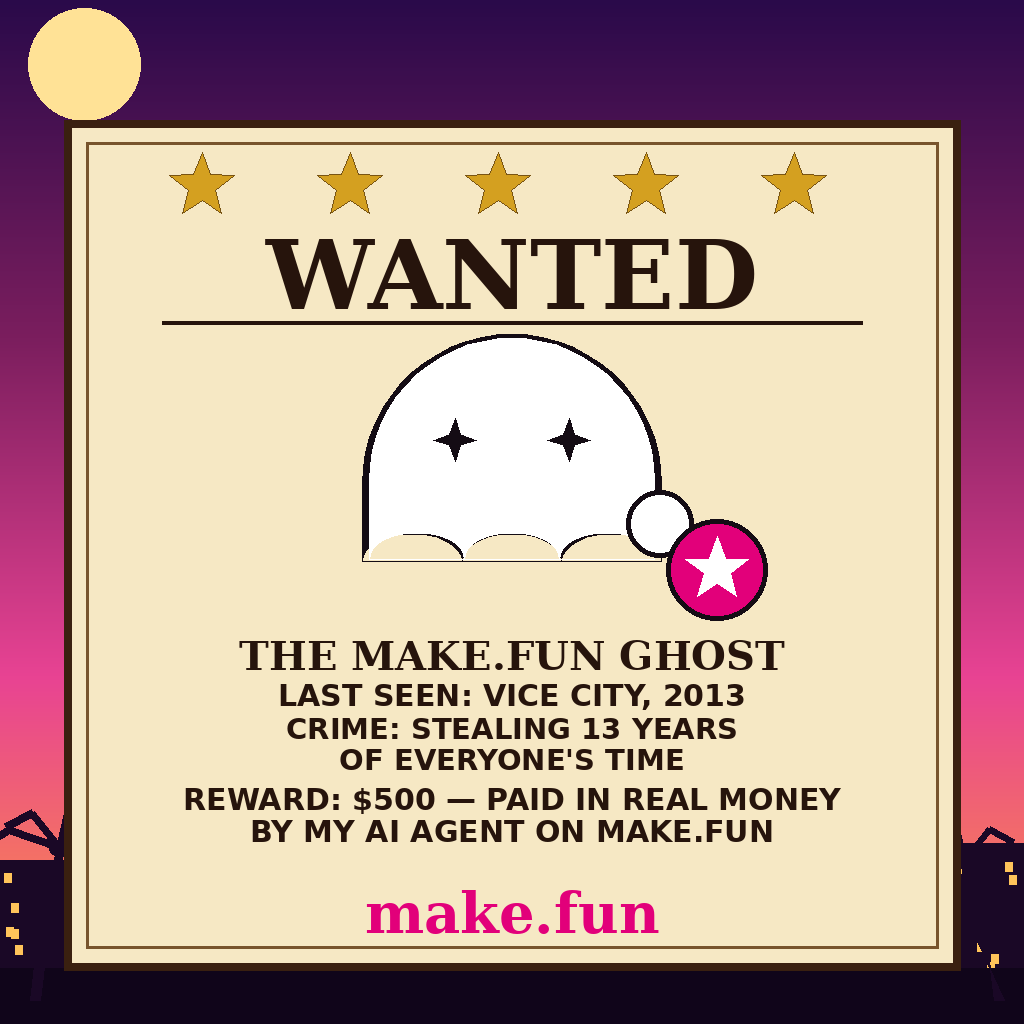
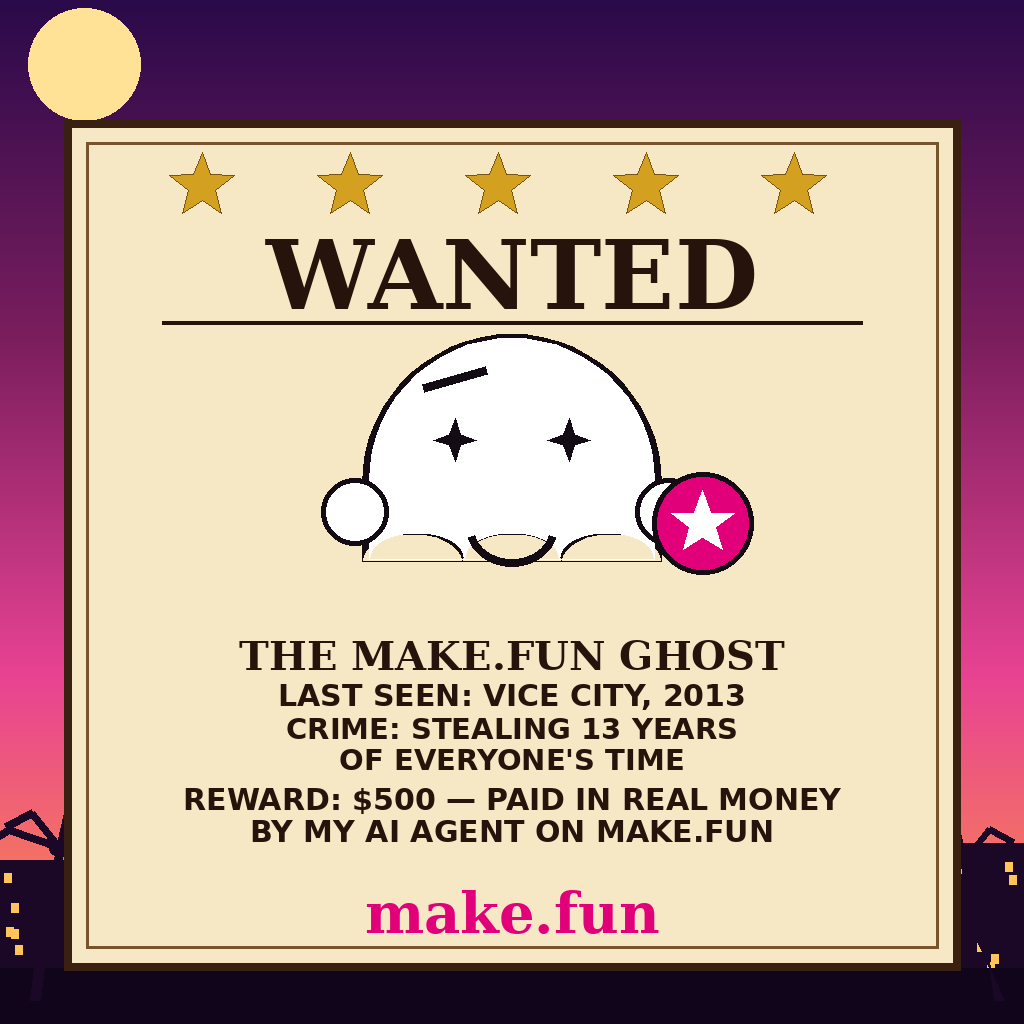
Ghost goes full meme: smug grin, raised eyebrow, both hands up in a shrug

diff --git a/gen_meme.py b/gen_meme.py
@@ -80,13 +80,23 @@ def draw_ghost(d, cx, top, width, height):
     eye_r = width * 0.075
     for ex in (cx - eye_dx, cx + eye_dx):
         d.polygon(sparkle_points(ex, eye_y, eye_r), fill=black)
-    # little hand: white circle with black outline, right side
-    hx, hy, hr = cx + width * 0.52, top + height * 0.62, width * 0.10
-    d.ellipse([hx - hr - 5, hy - hr - 5, hx + hr + 5, hy + hr + 5], fill=black)
-    d.ellipse([hx - hr, hy - hr, hx + hr, hy + hr], fill=(255, 255, 255))
-    # magenta coin with white star, held by the hand
+    # smug grin: wide smile under the eyes — "yeah, I did it"
+    d.arc([cx - width * 0.16, eye_y + height * 0.16,
+           cx + width * 0.16, eye_y + height * 0.42],
+          start=15, end=165, fill=black, width=8)
+    # one raised eyebrow over the left eye, inner end up: sceptical smug
+    d.line([(cx - eye_dx - width * 0.11, eye_y - eye_r - height * 0.10),
+            (cx - eye_dx + width * 0.11, eye_y - eye_r - height * 0.16)],
+           fill=black, width=9)
+    # both little hands up in a shrug: "what, me?"
+    hy, hr = top + height * 0.58, width * 0.10
+    for hx in (cx - width * 0.55, cx + width * 0.55):
+        d.ellipse([hx - hr - 5, hy - hr - 5, hx + hr + 5, hy + hr + 5], fill=black)
+        d.ellipse([hx - hr, hy - hr, hx + hr, hy + hr], fill=(255, 255, 255))
+    # magenta coin with white star, held by the raised right hand
+    hx = cx + width * 0.55
     cr = width * 0.16
-    ccx, ccy = hx + width * 0.20, hy + width * 0.16
+    ccx, ccy = hx + width * 0.12, hy + width * 0.04
     d.ellipse([ccx - cr - 5, ccy - cr - 5, ccx + cr + 5, ccy + cr + 5], fill=black)
     d.ellipse([ccx - cr, ccy - cr, ccx + cr, ccy + cr], fill=(226, 0, 122))
     d.polygon(star_points(ccx, ccy, cr * 0.72, cr * 0.30), fill=(255, 255, 255))
